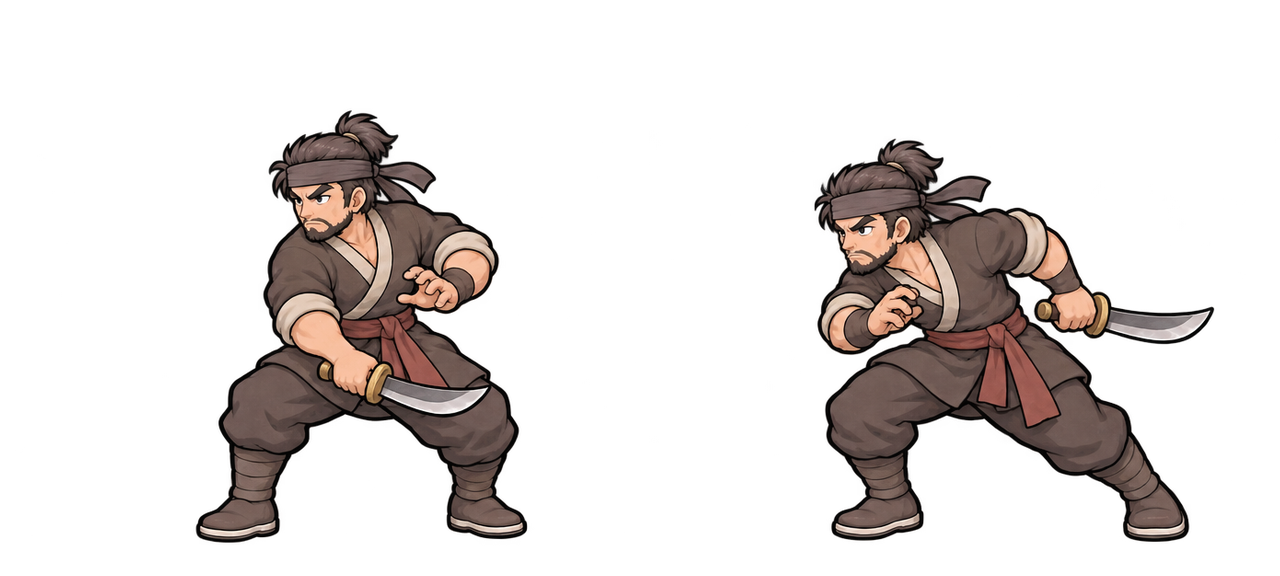
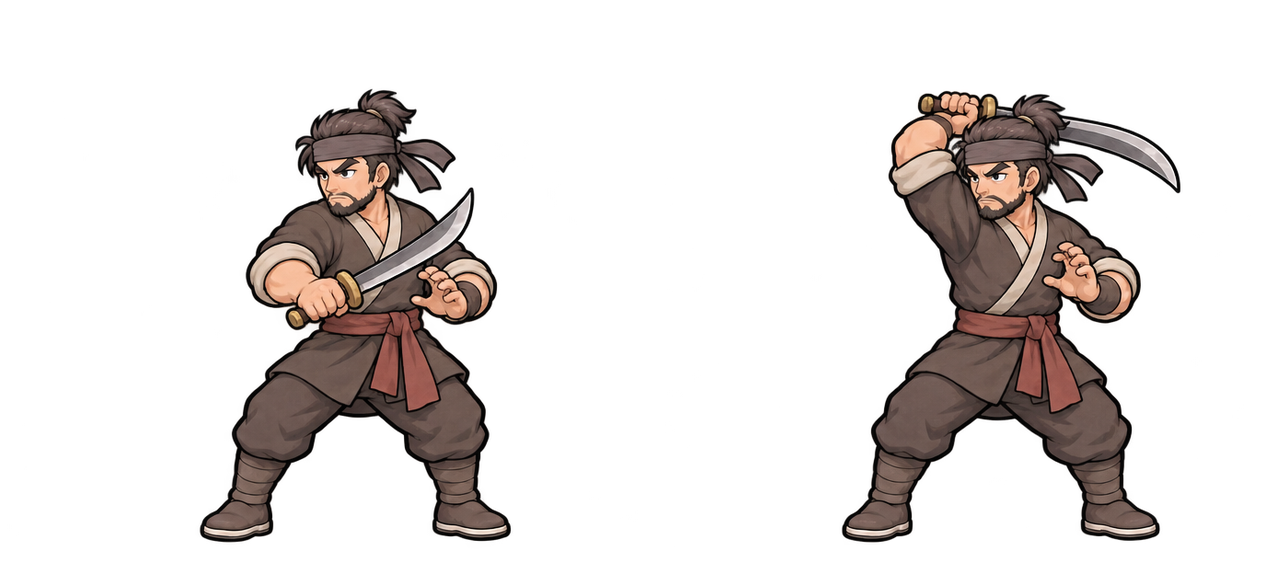
산적 공용 공격 예고를 도를 들어 올리는 자세로 교체

Changed region(s): [[0.625, 0.1562, 0.9688, 0.9375], [0.1562, 0.1562, 0.4375, 0.9375]]

diff --git a/전투/전투 캐릭터/산적/공격예고_적용안내.md b/전투/전투 캐릭터/산적/공격예고_적용안내.md
@@ -1,6 +1,6 @@
 # 산적 공용 공격 예고
 
-두 번째 시안의 낮은 자세를 산적의 공용 공격 예고로 사용한다. 산적이 무릎을 굽히고 도를 허리 뒤로 당긴다.
+산적이 도를 가슴 앞으로 거둔 뒤 머리 뒤로 들어 올려 힘을 모은다. 이 두 자세를 공용 공격 예고로 사용한다.
 
 [투명 PNG](공격예고.png)는 1280×576px이며, 왼쪽부터 예고 시작과 유지 자세다. 셀은 640×576px, 발밑 등록점은 (320, 544)이다. [프레임 정보](공격예고.json)를 참고한다.
 
